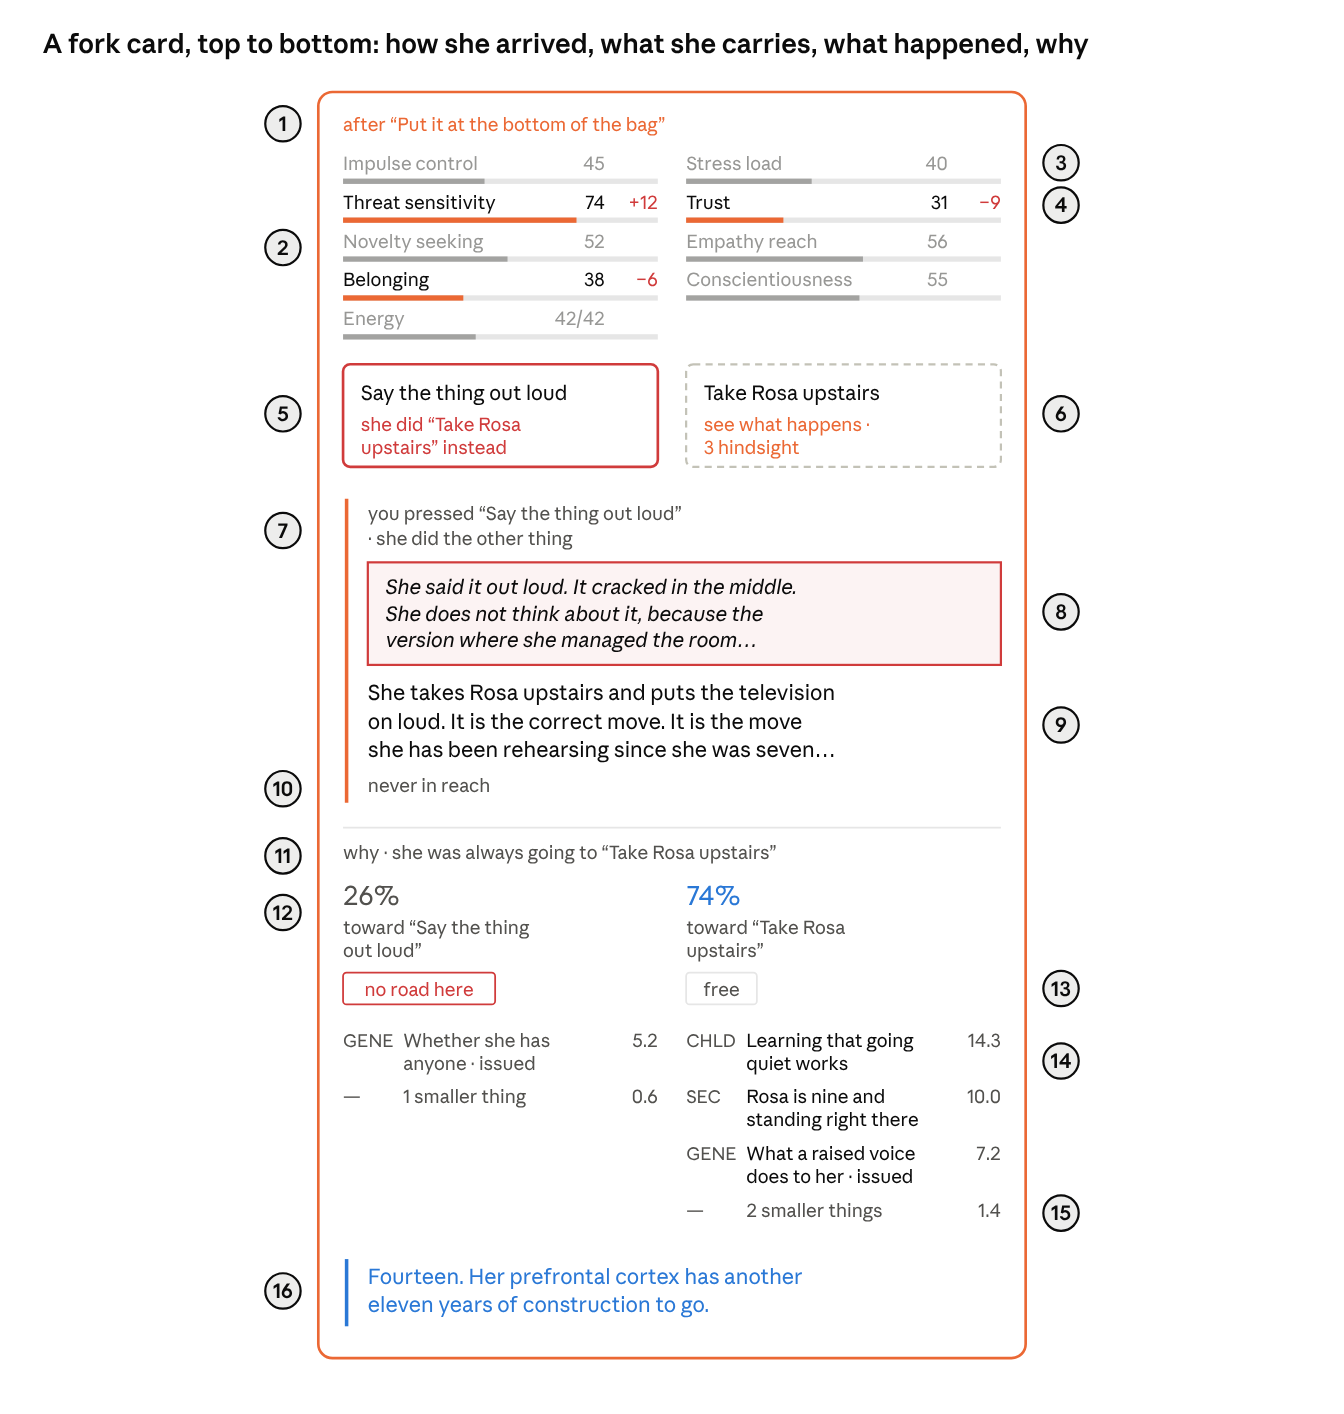
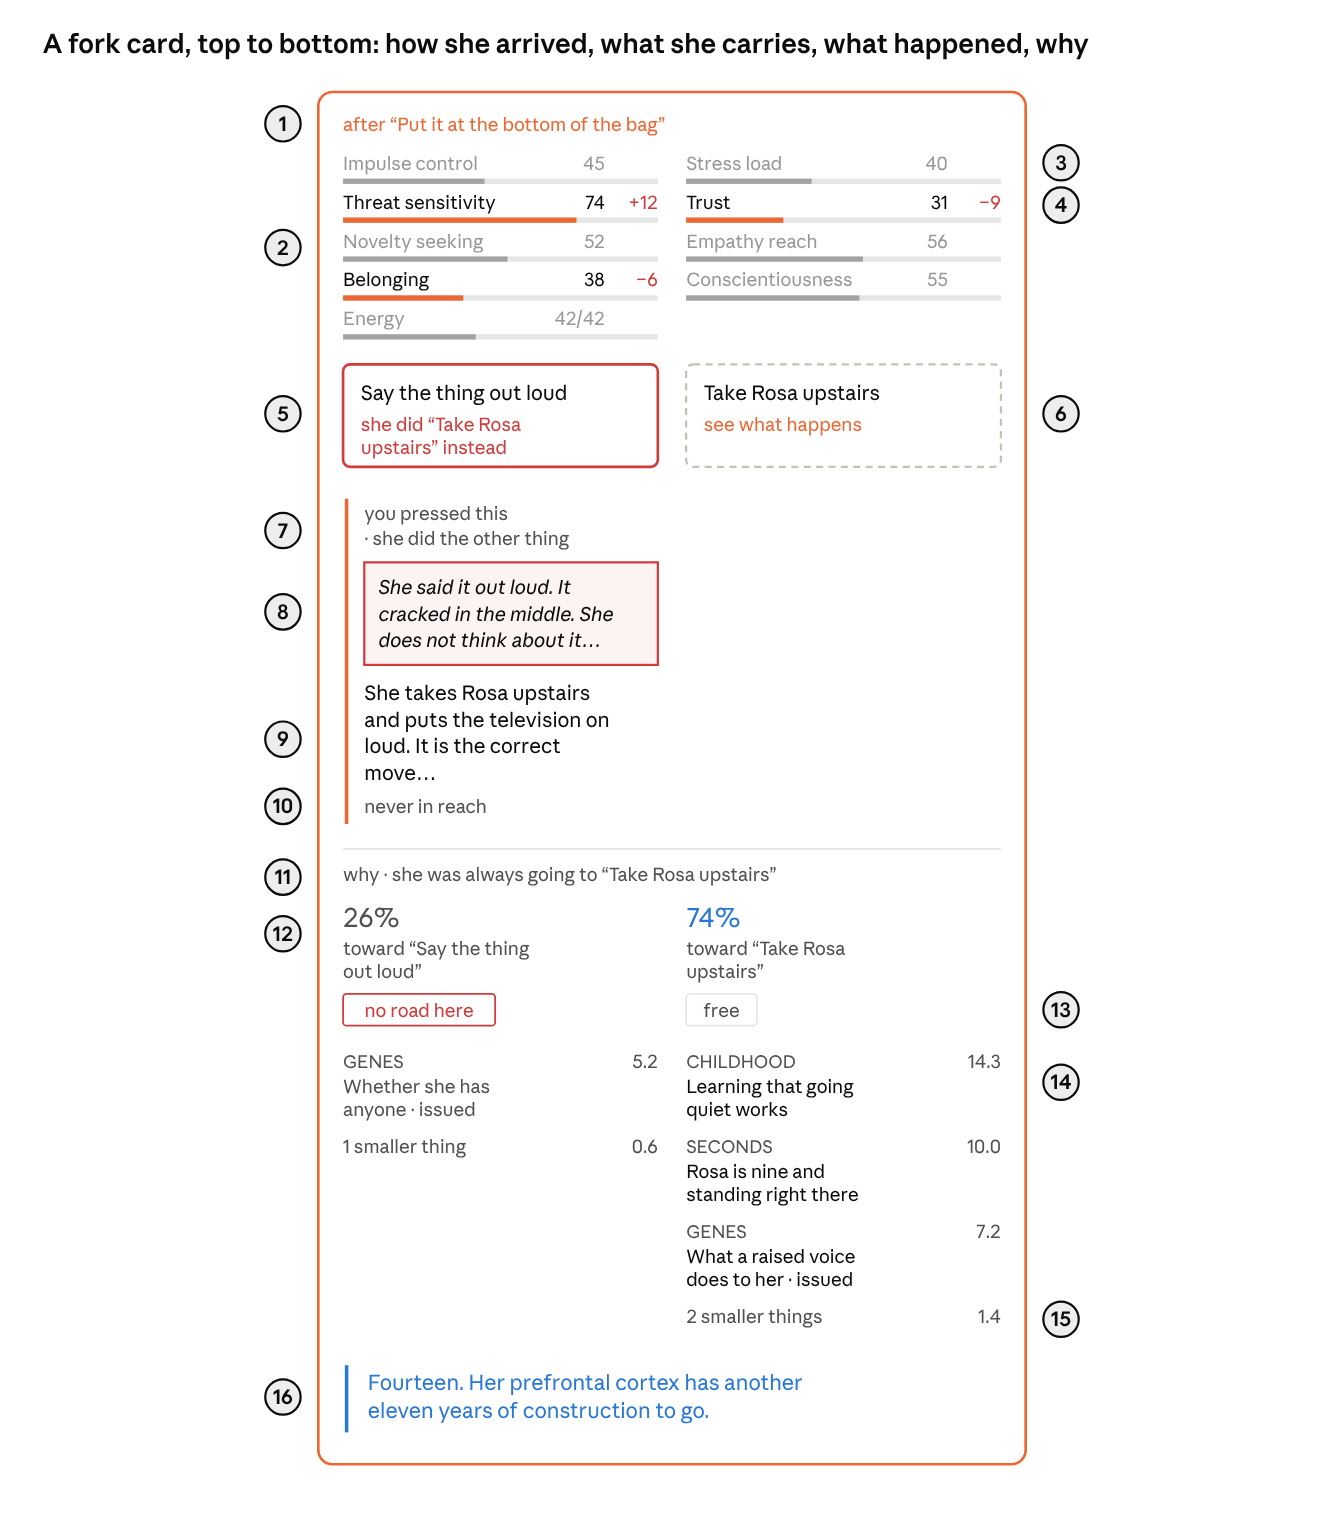
Vocabulary doc: no hindsight, full rung words, outcomes under answers
Mirrors the Claude Doc after build 8f0be17: the hindsight meter, its price
and the refusal are gone from the text and the diagrams, rung tags are
spelled out, and the fork card diagram shows the outcome under its answer.

Claude-Session: https://claude.ai/code/session_019QN9r1m9ArPtHyfoJGSZhY

diff --git a/docs/VOCABULARY.md b/docs/VOCABULARY.md
@@ -9,7 +9,7 @@ Every visible thing in the game gets exactly one name here, so a piece of feedba
 - The pictures are drawn mock-ups of the live screen. Numbered markers point at its parts, and a key beside or under each picture names them.
 - The diagrams show things a single screenshot cannot: the shape of the whole tree, and what happens when you press.
 
-Everything here describes the build currently live (`99c55c7`).
+Everything here describes the build currently live (`8f0be17`).
 
 ## The big picture: the tree
 
@@ -25,9 +25,9 @@ The last row is the **anchor act**, the question the life exists for. Its forks 
 
 The screen is a scrolling window onto the tree, with a **status bar** at the top and two pinned **step bars**: the **previous bar** above the tree and the **next bar** below it.
 
-![The play screen · 11 named parts](vocabulary/play-screen.png)
+![The play screen · 10 named parts](vocabulary/play-screen.png)
 
-The **scene header** belongs to the row, not to a card: it is printed once and slides sideways to sit above whichever fork you are looking at. The **status bar** is the strip holding parts 1 to 3.
+The **scene header** belongs to the row, not to a card: it is printed once and slides sideways to sit above whichever fork you are looking at. The **status bar** is the strip holding parts 1 and 2.
 
 ## Anatomy of a fork card
 
@@ -42,8 +42,8 @@ A **fork card** reads top to bottom: how she got here, what she carries in, the 
 | 3 | **Quiet measure** | Faded: the same in every fork of this row |
 | 4 | **Lit measure** and **delta** | Bright: differs between forks of this row; the delta is its gap to the active fork |
 | 5 | **Played answer** and **result line** | An answer somebody pressed here, with what she did; red when confabulated |
-| 6 | **Unplayed answer** and **go-back line** | Dashed: nobody pressed it; the go-back line is its hindsight price |
-| 7 | **Outcome** | One per played answer: "you pressed …", then what happened |
+| 6 | **Unplayed answer** and **go-back line** | Dashed: nobody pressed it; behind Now the go-back line reads "see what happens" |
+| 7 | **Outcome** | Directly under its own answer, so two outcomes sit side by side: "you pressed this", then what happened |
 | 8 | **Confabulation** | Her own account of doing what you did not press |
 | 9 | **Narration** | What actually happened |
 | 10 | **Spend line** | What it cost her: flowed, overrode, emptied out, or never in reach |
@@ -69,7 +69,6 @@ Colour always means the same thing: **gold** is the path you are on, **blue** is
 | Solid answer button | **Played** | Somebody pressed it; its outcome is shown on the card |
 | Short dashed line under a card | **Open branch** | Where an unplayed answer would lead |
 | Red-bordered answer, red result line | **Confabulated** | You pressed it, and she did the other answer instead |
-| Greyed answer reading "needs N hindsight" | **Out of hindsight** | Going back here costs more hindsight than is left |
 | Bright measure in the carry panel | **Lit** | It differs between the forks in this row |
 | Faded measure in the carry panel | **Quiet** | It is the same in every fork of this row |
 | Green or red number beside a measure | **Delta** | Its difference from the active fork; green is better for her, red worse |
@@ -80,11 +79,11 @@ Colour always means the same thing: **gold** is the path you are on, **blue** is
 
 ## Moving around
 
-There is one action that changes anything, **pressing** an answer, and it has four results, or a refusal. Only **going back** costs anything.
+There is one action that changes anything, **pressing** an answer, and it has four results. None of them costs anything, **going back** included.
 
-![Pressing an answer · 4 questions, 5 results](vocabulary/pressing.png)
+![Pressing an answer · 3 questions, 4 results](vocabulary/pressing.png)
 
-Going back costs one hindsight per row travelled up from where she stands now, and never less than two. Everything else only moves your view:
+Going back is free from any distance, as often as you like: the point is to compare paths, not to ration them. Everything else only moves your view:
 
 | Move | How | What it does |
 | --- | --- | --- |
@@ -106,7 +105,7 @@ Two screens come before the tree: the **title screen**, then the **roll**, which
 | **Life label** | "Life one · Ten Digits" — which authored life you are about to play |
 | **Anchor line** | "Nadia calls her father, or she does not." — the one act the life exists to explain |
 | **Roll for a life** | The button that starts a new life |
-| **Build stamp** | "build 99c55c7" — which version of the game is on screen |
+| **Build stamp** | "build 8f0be17" — which version of the game is on screen |
 | **Life number** | The number that fixes this life's roll; the same number gives the same birth |
 
 **Roll screen**
@@ -121,8 +120,6 @@ The roll reveals four **origins**, one per press of **Roll**. You cannot re-roll
 | **Trait chips** | Stress load +16 · Trust −4 | What that result does to her traits; green helps her, red hurts |
 | **Quip** | "Oops! I guess you were born in the wrong family!" | The narrator's gold one-liner on the result |
 | **Start her life** | — | The button that opens the tree at the root |
-
-One thing the roll also sets is deliberately not shown: how much **hindsight** this life gets. That is meant to be discovered later.
 
 ## The numbers underneath
 
@@ -143,7 +140,6 @@ Every fork is decided by arithmetic on her history, and all of it is shown on th
 | Conscientiousness | The habit of finishing things | better |
 | **Energy** | What she can spend at this fork to go against her tendency | better |
 | **Ceiling** | The most energy she can have here; sleep debt and stress push it down | better |
-| **Hindsight** | Your budget for going back to earlier forks, set by the roll | better |
 
 **How a fork is decided**
 
@@ -162,7 +158,7 @@ Every fork is decided by arithmetic on her history, and all of it is shown on th
 | **Confabulation** | She did the answer you did not press, and explains it to herself as her own choice |
 | **Nudge** | The tendency answer at Now is drawn 1.5% larger and one step warmer; nothing else marks it |
 
-**The causal ladder.** Every cause carries a **rung tag** saying how long before the moment it happened, from deepest to most recent: EVO · CULT · ANCE (ancestry) · GENE · PRE (before birth) · INF (infancy) · CHLD · ADOL · YRS · MOS · WKS · DAYS · HRS · MIN · SEC. The same tags label the questions, from CHLD at the root to SEC at the phone call.
+**The causal ladder.** Every cause carries a **rung tag** saying how long before the moment it happened, always spelled out in full. From deepest to most recent: Evolution · Culture · Ancestry · Genes · Prenatal · Infancy · Childhood · Adolescence · Years · Months · Weeks · Days · Hours · Minutes · Seconds. The same tags label the questions, from Childhood at the root to Seconds at the phone call.
 
 ## Quick reference
 
@@ -179,20 +175,20 @@ Every name in this doc, alphabetically, with where it is explained.
 | Branch | The line from an answer down to the fork it leads to | Tree |
 | Carry panel | The eight traits and energy she brings to a fork | Fork card |
 | Cause | One line of a receipt: a fact from her past and its pull | Fork card |
-| Causal ladder, rung tag | How long ago something happened: EVO … SEC | Numbers |
+| Causal ladder, rung tag | How long ago something happened: Evolution … Seconds, always in full | Numbers |
 | Ceiling | The hatched end of the energy bar: energy out of reach | Numbers |
 | Confabulated, confabulation | She did the other answer; her excuse for it | Fork card |
 | Cost, cost chip | Energy needed to go against the tendency | Fork card |
 | Delta | A lit measure's difference from the active fork | Fork card |
 | Emptied out | Cost above her energy but within her ceiling | Numbers |
 | Ending card | Below the last question: what became of her | Tree |
-| Energy meter, hindsight meter | The two bars in the status bar | Screen |
+| Energy meter | The bar in the status bar; its hatched end is the ceiling | Screen |
 | Focus | Tapping a card to look at it, without changing anything | Moving |
 | Fold line | "3 smaller things": the tiny causes, summed | Fork card |
 | Follow | Pressing a played answer on the active path: steps down | Moving |
 | Fork, fork card | One version of a question, reached by one history | Tree |
 | Fork count | "2 forks" in the scene header | Screen |
-| Go back, go-back line | Pressing an unplayed answer behind Now; costs hindsight | Moving |
+| Go back, go-back line | Pressing an unplayed answer behind Now; free, and a new path starts there | Moving |
 | Issued | The part of a trait she was born with | Numbers |
 | Life | Everything from one roll; another life means a new roll | Tree |
 | Life (scenario) | The authored scenario, "Ten Digits"; in code, a single roll of it is a run, a word never shown on screen | Before |
@@ -218,7 +214,7 @@ Every name in this doc, alphabetically, with where it is explained.
 | Scene header, scene text | Header above the cards, once per row: scene text, timestamp, fork count; the scene text is the question's prose | Screen |
 | Side path | A path you played and left, drawn blue | Tree |
 | Spend line | The result: flowed, overrode, emptied out or never in reach ("free · the way she was going", "cost 41 of 45") | Fork card |
-| Status bar | The top strip: energy, hindsight, Now button | Screen |
+| Status bar | The top strip: the energy meter and the Now button | Screen |
 | Step up, step down | Using the previous or next bar | Moving |
 | Switch | Pressing a played answer on a side path; it becomes active | Moving |
 | Tendency | The answer her history leans toward; always free | Numbers |
